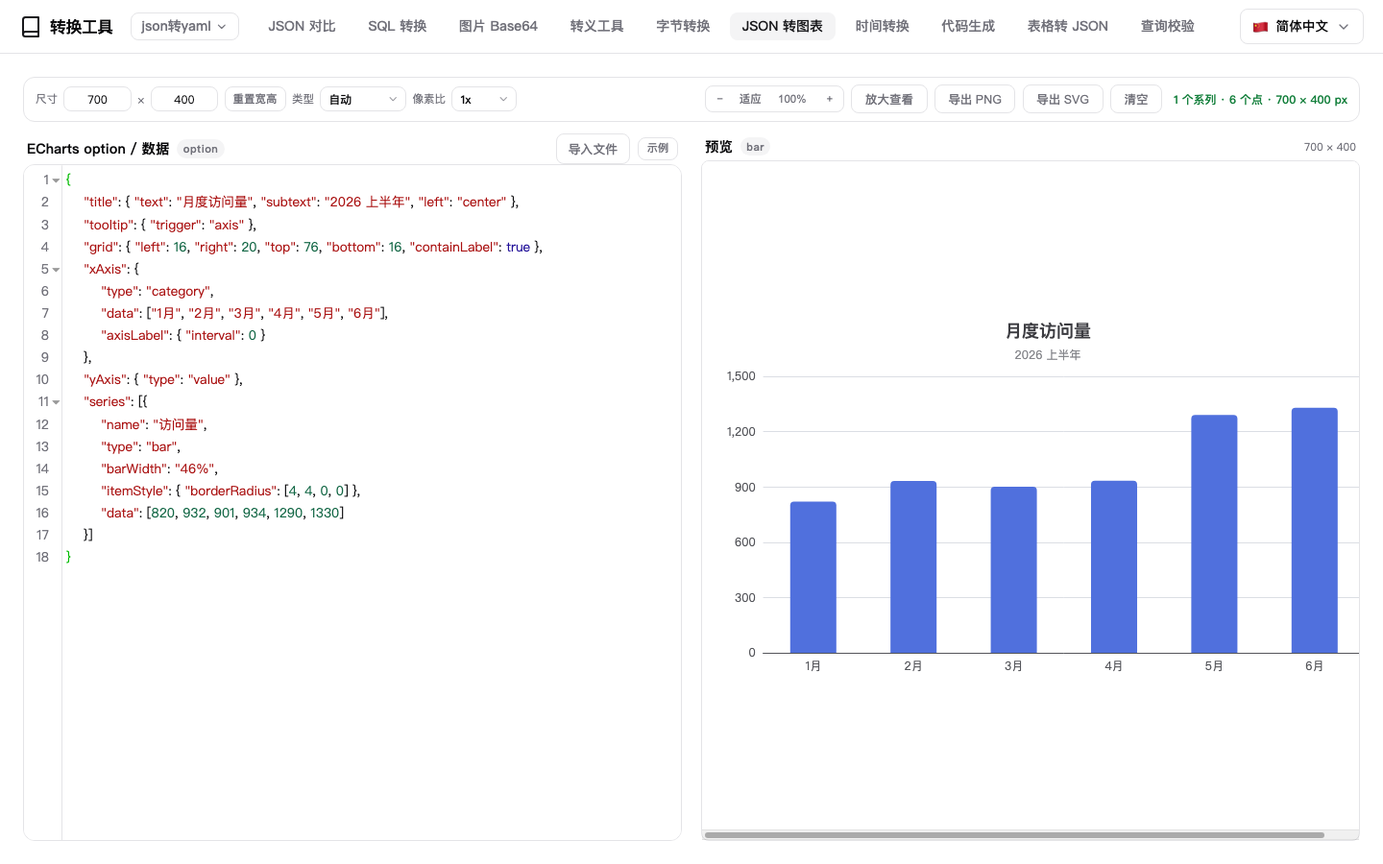
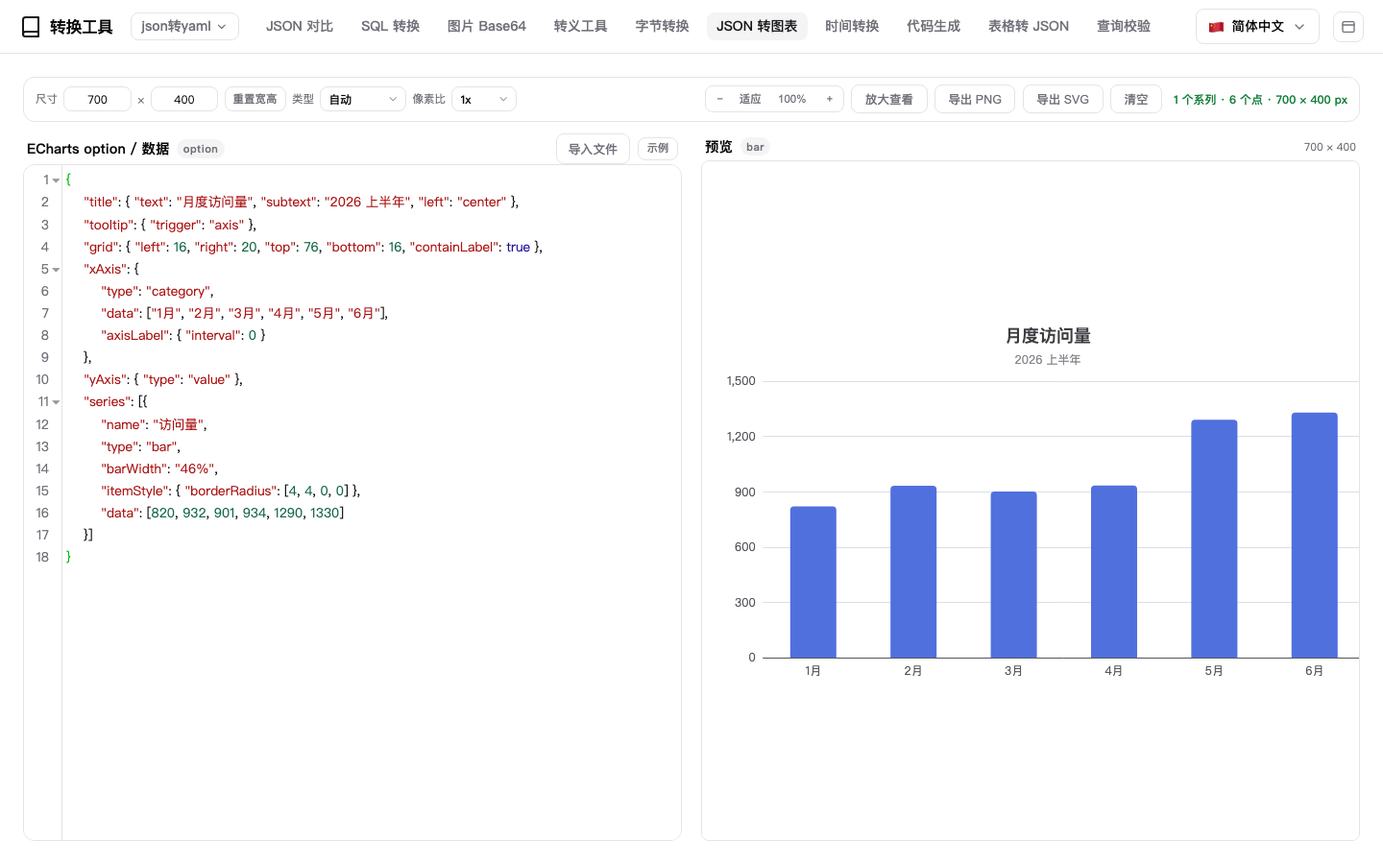
增加导航栏切换

diff --git a/ui/index.html b/ui/index.html
@@ -284,7 +284,9 @@
             text-decoration: none;
             color: inherit;
             cursor: pointer;
-            padding: 0.4rem 0.8rem;
+            /* 比原来的 0.8rem 收一点：给右上角的布局切换按钮腾出位置，
+               1440 宽下 10 个导航项仍然全部留在顶栏上 */
+            padding: 0.4rem 0.65rem;
             border-radius: var(--radius-md, 0.5rem);
             transition: all 0.15s ease;
             font-weight: 500;
@@ -297,6 +299,77 @@
         }
         /* 一项都放不下时不要让空容器继续占位 */
         .nav-links.is-empty { flex: 0 0 0; }
+
+        /* ===== 导航位置切换：默认顶部，可切到左侧 ===== */
+        .nav-toggle {
+            display: inline-flex;
+            align-items: center;
+            justify-content: center;
+            width: 2rem;
+            height: 2rem;
+            padding: 0;
+            flex-shrink: 0;
+            border: 1px solid var(--border-light);
+            border-radius: var(--radius-md, 0.5rem);
+            background: transparent;
+            color: var(--text-muted);
+            cursor: pointer;
+            transition: all 0.15s ease;
+        }
+        .nav-toggle:hover {
+            color: var(--text-main);
+            background-color: var(--accent-bg);
+        }
+        .nav-toggle svg { width: 1rem; height: 1rem; }
+        .nav-toggle-icon-left { display: none; }
+
+        @media (min-width: 769px) {
+            /* 图标跟着当前布局走：顶部显示「顶栏」图，左侧显示「侧栏」图 */
+            body.nav-left .nav-toggle-icon-top { display: none; }
+            body.nav-left .nav-toggle-icon-left { display: block; }
+
+            /* 导航项整列贴到左边，顶栏只留品牌 / 格式转换 / 语言 / 切换 */
+            body.nav-left { --nav-left-w: 13rem; }
+            body.nav-left #navLinks {
+                position: fixed;
+                top: 3.5rem;
+                left: 0;
+                bottom: 0;
+                width: var(--nav-left-w, 13rem);
+                height: auto;
+                flex: 0 0 auto;
+                flex-direction: column;
+                align-items: stretch;
+                gap: 0.25rem;
+                margin: 0;
+                padding: 0.75rem 0.625rem;
+                overflow-x: hidden;
+                overflow-y: auto;
+                white-space: normal;
+                background-color: var(--bg-base);
+                border-right: 1px solid var(--border-light);
+                z-index: 20;
+            }
+            body.nav-left #navLinks a {
+                display: block;
+                padding: 0.5rem 0.75rem;
+            }
+            /* 竖排能放下所有项，「更多」不会再出现 */
+            body.nav-left #navMore { display: none; }
+            /* 导航项离场后，把语言与切换按钮顶到右边 */
+            body.nav-left .nav-convert { margin-right: auto; }
+            /* 内容区让出左侧栏的宽度 */
+            body.nav-left .main-container {
+                margin-left: var(--nav-left-w, 13rem);
+                margin-right: 0;
+                width: auto;
+            }
+        }
+
+        /* 窄屏放不下侧栏，只保留顶部布局 */
+        @media (max-width: 768px) {
+            .nav-toggle { display: none; }
+        }
 
         /* 「格式转换」下拉：7 个格式互转入口收在这里 */
         .nav-convert {
@@ -2738,6 +2811,12 @@
         </button>
         <div class="lang-menu" id="langMenu"></div>
     </div>
+
+    <!-- 导航位置切换：顶部 ⇄ 左侧，偏好记在 localStorage（默认顶部） -->
+    <button type="button" class="nav-toggle" id="navToggle" data-keep-title aria-label="切换到左侧导航">
+        <svg class="nav-toggle-icon-top" xmlns="http://www.w3.org/2000/svg" viewBox="0 0 24 24" fill="none" stroke="currentColor" stroke-width="2" stroke-linecap="round" stroke-linejoin="round"><rect x="3" y="4" width="18" height="16" rx="2"/><line x1="3" y1="9" x2="21" y2="9"/></svg>
+        <svg class="nav-toggle-icon-left" xmlns="http://www.w3.org/2000/svg" viewBox="0 0 24 24" fill="none" stroke="currentColor" stroke-width="2" stroke-linecap="round" stroke-linejoin="round"><rect x="3" y="4" width="18" height="16" rx="2"/><line x1="9" y1="4" x2="9" y2="20"/></svg>
+    </button>
 </header>
 
 <main class="main-container">
@@ -4043,6 +4122,9 @@
             closeNavMore();
 
             if (!links.length) return;
+            // 左侧竖排：宽度固定、纵向滚动，横向永远不会溢出，也就没有「更多」
+            // （窄屏会退回顶部布局，那时仍要走下面的溢出逻辑）
+            if (document.body.classList.contains('nav-left') && window.innerWidth > 768) return;
             // 放得下就不用「更多」按钮（避免占位把内容挤出去）
             if (!navOverflow()) return;
 
@@ -4165,21 +4247,118 @@
         // =========================================
         // 导航「格式转换」下拉的标题：14 种语言的小表，同样由 applyI18n 合并查询
         const NAV_I18N = {
-            'zh-CN': { navConvert: '格式转换', navBytes: '字节转换', navChart: 'JSON 转图表', navTime: '时间转换' },
-            'zh-TW': { navConvert: '格式轉換', navBytes: '位元組轉換', navChart: 'JSON 轉圖表', navTime: '時間轉換' },
-            en: { navConvert: 'Convert', navBytes: 'Bytes', navChart: 'JSON to Chart', navTime: 'Time' },
-            az: { navConvert: 'Format', navBytes: 'Bayt', navChart: 'JSON → Diaqram', navTime: 'Vaxt' },
-            es: { navConvert: 'Formato', navBytes: 'Bytes', navChart: 'JSON a gráfico', navTime: 'Tiempo' },
-            id: { navConvert: 'Format', navBytes: 'Byte', navChart: 'JSON ke grafik', navTime: 'Waktu' },
-            it: { navConvert: 'Formato', navBytes: 'Byte', navChart: 'JSON in grafico', navTime: 'Tempo' },
-            ja: { navConvert: '形式変換', navBytes: 'バイト変換', navChart: 'JSON → グラフ', navTime: '時間変換' },
-            ko: { navConvert: '형식 변환', navBytes: '바이트 변환', navChart: 'JSON → 차트', navTime: '시간 변환' },
-            pt: { navConvert: 'Formato', navBytes: 'Bytes', navChart: 'JSON para gráfico', navTime: 'Tempo' },
-            pl: { navConvert: 'Format', navBytes: 'Bajty', navChart: 'JSON na wykres', navTime: 'Czas' },
-            ru: { navConvert: 'Формат', navBytes: 'Байты', navChart: 'JSON в график', navTime: 'Время' },
-            th: { navConvert: 'รูปแบบ', navBytes: 'ไบต์', navChart: 'JSON เป็นกราฟ', navTime: 'เวลา' },
-            tr: { navConvert: 'Format', navBytes: 'Bayt', navChart: 'JSON → Grafik', navTime: 'Zaman' }
+            'zh-CN': { navConvert: '格式转换', navBytes: '字节转换', navChart: 'JSON 转图表', navTime: '时间转换', navToggleToLeft: '切换到左侧导航', navToggleToTop: '切换到顶部导航' },
+            'zh-TW': { navConvert: '格式轉換', navBytes: '位元組轉換', navChart: 'JSON 轉圖表', navTime: '時間轉換', navToggleToLeft: '切換到左側導覽', navToggleToTop: '切換到頂部導覽' },
+            en: { navConvert: 'Convert', navBytes: 'Bytes', navChart: 'JSON to Chart', navTime: 'Time', navToggleToLeft: 'Move navigation to the left', navToggleToTop: 'Move navigation to the top' },
+            az: { navConvert: 'Format', navBytes: 'Bayt', navChart: 'JSON → Diaqram', navTime: 'Vaxt', navToggleToLeft: 'Naviqasiyanı sola keçir', navToggleToTop: 'Naviqasiyanı yuxarı keçir' },
+            es: { navConvert: 'Formato', navBytes: 'Bytes', navChart: 'JSON a gráfico', navTime: 'Tiempo', navToggleToLeft: 'Mover la navegación a la izquierda', navToggleToTop: 'Mover la navegación arriba' },
+            id: { navConvert: 'Format', navBytes: 'Byte', navChart: 'JSON ke grafik', navTime: 'Waktu', navToggleToLeft: 'Pindahkan navigasi ke kiri', navToggleToTop: 'Pindahkan navigasi ke atas' },
+            it: { navConvert: 'Formato', navBytes: 'Byte', navChart: 'JSON in grafico', navTime: 'Tempo', navToggleToLeft: 'Sposta la navigazione a sinistra', navToggleToTop: 'Sposta la navigazione in alto' },
+            ja: { navConvert: '形式変換', navBytes: 'バイト変換', navChart: 'JSON → グラフ', navTime: '時間変換', navToggleToLeft: 'ナビゲーションを左へ', navToggleToTop: 'ナビゲーションを上へ' },
+            ko: { navConvert: '형식 변환', navBytes: '바이트 변환', navChart: 'JSON → 차트', navTime: '시간 변환', navToggleToLeft: '탐색을 왼쪽으로', navToggleToTop: '탐색을 위로' },
+            pt: { navConvert: 'Formato', navBytes: 'Bytes', navChart: 'JSON para gráfico', navTime: 'Tempo', navToggleToLeft: 'Mover a navegação para a esquerda', navToggleToTop: 'Mover a navegação para o topo' },
+            pl: { navConvert: 'Format', navBytes: 'Bajty', navChart: 'JSON na wykres', navTime: 'Czas', navToggleToLeft: 'Przenieś nawigację w lewo', navToggleToTop: 'Przenieś nawigację na górę' },
+            ru: { navConvert: 'Формат', navBytes: 'Байты', navChart: 'JSON в график', navTime: 'Время', navToggleToLeft: 'Переместить навигацию влево', navToggleToTop: 'Переместить навигацию наверх' },
+            th: { navConvert: 'รูปแบบ', navBytes: 'ไบต์', navChart: 'JSON เป็นกราฟ', navTime: 'เวลา', navToggleToLeft: 'ย้ายเมนูไปทางซ้าย', navToggleToTop: 'ย้ายเมนูไปด้านบน' },
+            tr: { navConvert: 'Format', navBytes: 'Bayt', navChart: 'JSON → Grafik', navTime: 'Zaman', navToggleToLeft: 'Gezinmeyi sola taşı', navToggleToTop: 'Gezinmeyi üste taşı' }
         };
+
+        // 导航小表的取值（主字典里没有这些键）
+        function navT(key, fallback) {
+            const d = NAV_I18N[currentLang] || NAV_I18N.en || {};
+            return d[key] || fallback;
+        }
+
+        // =========================================
+        // 3.6 导航位置：顶部（默认）⇄ 左侧，偏好持久化
+        // =========================================
+        // DBX 工作台是 opaque origin 的沙箱，localStorage 会直接抛 SecurityError，
+        // 跨会话记忆只能靠宿主的 window.dbxPlugin.storage（需 host.storage 权限，
+        // 初始化后看 capabilities.storage）。所以做成三级：
+        //   宿主 storage（沙箱里唯一能记住的）→ 浏览器 localStorage（dev / 浏览器预览）→ 内存
+        const NAV_PREF_KEY = 'navLayout';
+        const navToggleBtn = document.getElementById('navToggle');
+        let navLeft = false;
+
+        function navReadLocal() {
+            try {
+                const v = localStorage.getItem(NAV_PREF_KEY);
+                return v === 'left' || v === 'top' ? v : null;
+            } catch (e) { return null; }
+        }
+        function navWriteLocal(v) {
+            // 沙箱里这里必然抛，忽略即可，宿主存储才是真正生效的那一路
+            try { localStorage.setItem(NAV_PREF_KEY, v); } catch (e) { /* noop */ }
+        }
+        function navHostStore() {
+            const api = window.dbxPlugin;
+            if (!api || !api.storage) return null;
+            if (!(api.capabilities || {}).storage) return null;
+            return api.storage;
+        }
+        async function navReadHost() {
+            try {
+                const api = window.dbxPlugin;
+                if (!api) return null;
+                // capabilities 与 storage 都要等 init 消息（ready）之后才挂好
+                if (api.ready && typeof api.ready.then === 'function') await api.ready;
+                const store = navHostStore();
+                if (!store) return null;
+                const v = await store.get(NAV_PREF_KEY);
+                return v === 'left' || v === 'top' ? v : null;
+            } catch (e) { return null; }
+        }
+        async function navWriteHost(v) {
+            try {
+                const api = window.dbxPlugin;
+                if (!api) return;
+                if (api.ready && typeof api.ready.then === 'function') await api.ready;
+                const store = navHostStore();
+                if (store) await store.set(NAV_PREF_KEY, v);
+            } catch (e) { /* 旧宿主 / 未授权：静默降级，不打扰用户 */ }
+        }
+
+        function navSyncToggleLabel() {
+            if (!navToggleBtn) return;
+            const label = navLeft
+                ? navT('navToggleToTop', '切换到顶部导航')
+                : navT('navToggleToLeft', '切换到左侧导航');
+            navToggleBtn.setAttribute('aria-label', label);
+            // 宿主会给没 title 的按钮塞自己的提示词，这个要留着自己的
+            navToggleBtn.title = label;
+        }
+
+        function navApplyLayout() {
+            document.body.classList.toggle('nav-left', navLeft);
+            navSyncToggleLabel();
+            // 横排 / 竖排换了，谁该收进「更多」也要重算
+            layoutNav();
+        }
+
+        if (navToggleBtn) {
+            navToggleBtn.addEventListener('click', () => {
+                navLeft = !navLeft;
+                const pref = navLeft ? 'left' : 'top';
+                navWriteLocal(pref);
+                navWriteHost(pref);
+                navApplyLayout();
+            });
+        }
+
+        // 先按同步来源恢复（浏览器 / dev 宿主里 localStorage 可用），避免闪一下顶部
+        const navLocalPref = navReadLocal();
+        if (navLocalPref) navLeft = navLocalPref === 'left';
+        if (navLeft) document.body.classList.add('nav-left');
+        navSyncToggleLabel();
+
+        // 宿主存储是权威来源：沙箱里只有它能在重开 / 重启后记住
+        navReadHost().then((v) => {
+            if (!v) return;
+            const want = v === 'left';
+            if (want === navLeft) return;
+            navLeft = want;
+            navApplyLayout();
+        }).catch(() => {});
 
         function applyI18n() {
             // SQL 页与导航下拉的文案各放一张小表（见第 8 节 / 上面），这里合并进来查，
@@ -4224,6 +4403,8 @@
             updateOutputLabel();
             // 文案长度随语言变化，重新决定收哪几项进「更多」
             if (typeof layoutNav === 'function') layoutNav();
+            // 导航位置切换按钮的 title / aria-label 也跟着语言走
+            if (typeof navSyncToggleLabel === 'function') navSyncToggleLabel();
             // SQL 页的提示语是按当前语言拼出来的，切语言后重算一次
             if (typeof refreshSqlI18n === 'function') refreshSqlI18n();
             // 表格页的文件信息 / 提示语同理

diff --git a/tests/ui.smoke.js b/tests/ui.smoke.js
@@ -2401,6 +2401,33 @@ function check(name, fn) {
         if (doc.getElementById('navMoreTrigger').textContent.indexOf('更多') === -1) throw new Error('「更多」文案缺失');
     });
 
+    // 导航位置切换：默认顶部，可切到左侧（偏好由宿主 storage 记忆，这里只验布局）
+    check('默认是顶部导航，切换按钮在', function () {
+        if (!doc.getElementById('navToggle')) throw new Error('缺少切换按钮');
+        if (doc.body.classList.contains('nav-left')) throw new Error('默认不该是左侧');
+        if (inlineNavLinks().length !== 10) throw new Error('顶部直属项 ' + inlineNavLinks().length);
+        var label = doc.getElementById('navToggle').getAttribute('aria-label') || '';
+        if (label.indexOf('左侧') === -1) throw new Error('提示文案: ' + label);
+    });
+
+    doc.getElementById('navToggle').click();
+    check('点切换后导航变左侧', function () {
+        if (!doc.body.classList.contains('nav-left')) throw new Error('没切到左侧');
+        // 竖排能放下全部项，不该再收进「更多」
+        if (inlineNavLinks().length !== 10) throw new Error('左侧直属项 ' + inlineNavLinks().length);
+        if (moreEl.classList.contains('show')) throw new Error('左侧模式不该出现「更多」');
+        var label = doc.getElementById('navToggle').getAttribute('aria-label') || '';
+        if (label.indexOf('顶部') === -1) throw new Error('提示没切成「顶部」: ' + label);
+    });
+
+    doc.getElementById('navToggle').click();
+    check('再点一次回到顶部导航', function () {
+        if (doc.body.classList.contains('nav-left')) throw new Error('没切回顶部');
+        if (inlineNavLinks().length !== 10) throw new Error('回顶部后直属项 ' + inlineNavLinks().length);
+        var label = doc.getElementById('navToggle').getAttribute('aria-label') || '';
+        if (label.indexOf('左侧') === -1) throw new Error('提示没切成「左侧」: ' + label);
+    });
+
     check('「格式转换」下拉点开、点空白收起', function () {
         doc.getElementById('navConvertTrigger').click();
         if (!convertEl.classList.contains('open')) throw new Error('未展开');

diff --git a/.workbuddy/memory/MEMORY.md b/.workbuddy/memory/MEMORY.md
@@ -13,7 +13,7 @@
 ## 文档与截图
 
 1. **截图与当前版本一致**：改到 UI（导航、布局、文案、主题）就重拍 README 用到的图；导航项 / 页面结构 / 按钮文案要与当次打包的 `ui/index.html` 对得上。
-1.1 **加一个导航项 = 全部核心页截图都过时**（2026-10-25 教训）：导航是每张图都有的公共区域，新增「时间转换」后其余 10 张图里的导航就少了一项，用户一眼看出「截图好像是旧的」。所以加页面 / 改导航后要**整套重拍**，不能只补新页那张；拍完逐张确认导航里含新项。
+1.1 **动到公共区域 = 全部核心页截图都过时**（2026-10-25 教训）：导航是每张图都有的公共区域，新增「时间转换」后其余 10 张图里的导航就少了一项，用户一眼看出「截图好像是旧的」。所以加页面 / 改导航后要**整套重拍**，不能只补新页那张；拍完逐张确认导航里含新项。0.1.8 加顶栏布局按钮 + 改导航项 padding 同样触发整套重拍。
 1.2 重拍脚本：`/tmp/imgh/shoot-readme-all.js` 一次跑 11 张（1440×900、1x、亮色、清 toast），另有 `shoot-readme-main.js`（格式转换页）、`shoot-readme-fill.js`、`shoot-readme-sql.js` 处理要手工装内容的页。三个坑：
    - **只有部分页会自动装示例**（代码 / 查询 / 转义 / 字节 / 图表点导航就有；表格要点「用户信息」、图片要点「示例图片」）；**格式转换、对比、SQL、时间转换是空的**，格式转换点 `#genMockBtn` + `#convertBtn`，对比点 `#cmpJsonSamples` 里的「用户信息」+ `#cmpRun`，SQL 要往 `#sqlInputText` 灌值再点 `#sqlGenerate`，时间转换往 CM 里灌 5 行（`2020-01-01` / 空格 / `T` / 两个时间戳）。时间页的空态看着像有字，其实是 `timeInputPlaceholder` 的灰色占位（一行用 `·` 连起来）。
    - 判断内容有没有进去**别读 `textarea.value`**（CodeMirror 会返回空），读 `el.CodeMirror.getValue()`；懒创建的 CM 要等 ~500 ms 再取。
@@ -82,6 +82,14 @@
 - `timeLocateRow()` 调 `scrollIntoView` 前必须判 `typeof === 'function'`：jsdom 没实现，而快捷填入会主动定位，不判就在冒烟里抛错。
 - 快捷卡片同样要 `flex-shrink: 0`（时间页是纵向 flex，否则被结果区挤扁）。
 - 文案在独立小表 `TIME_I18N`（14 语），并入 `applyI18n` 与 `tests/i18n.test.js`。
+
+### 导航位置切换（0.1.8）
+
+- 默认顶部。顶栏最右 `#navToggle` 切换，给 `body` 加 `nav-left` 生效。左侧时 `#navLinks` 变 `position: fixed; top: 3.5rem; left: 0; width: 13rem` 竖排，`.main-container` 让出同宽；`#navMore` 隐藏（竖排放得下全部 10 项）；`.nav-convert { margin-right: auto }` 把语言/切换顶到右边。
+- **偏好只能靠宿主存**：DBX 工作台是 opaque origin 沙箱，`localStorage` 抛 SecurityError。用 `window.dbxPlugin.storage`（manifest 要有 `host.storage`，且 `capabilities.storage` 为真），浏览器 / dev 退回 `localStorage`，再不行只在本会话生效。键 `navLayout`，值 `top` / `left`。启动先同步 localStorage 预读避免闪，再 `await dbxPlugin.ready` 用宿主值校正。
+- `layoutNav()` 在 `nav-left` 且 `innerWidth > 768` 时短路：竖排横向不溢出，别把项搬进那个被隐藏的 `#navMore`。窄屏（≤768）仍走顶部布局，切换按钮直接隐藏。
+- **加按钮会挤掉导航项**：1440 宽下 10 项原本刚好排满，新按钮让末尾两项进了「更多」。`.nav-links a` 左右 padding 从 `0.8rem` 收到 `0.65rem` 才保住 10 项（实测 0.6 / 0.65 都行）。左侧栏的项单独设 `padding: 0.5rem 0.75rem`，不受影响。
+- `timeLocateRow` 之外又一例 jsdom 差异：`window.innerWidth` 在 jsdom 默认 1024，短路判断在冒烟里能正常走左侧分支。
 
 ### 导入体系（0.1.6）
 

diff --git a/.workbuddy/memory/2026-10-26.md b/.workbuddy/memory/2026-10-26.md
@@ -1,0 +1,29 @@
+# 2026-10-26
+
+### 导航栏可切到左侧（默认顶部 + 跨会话记忆）
+
+需求三连：「增加导航栏切换功能，可以切到左侧，其他功能不要变」→「默认顶部导航栏」→「支持导航栏切换记忆」→「再次打开要为最后一次的模式」→「考虑对dbx插件的记忆」。
+
+**实现**
+- 顶栏最右加 `#navToggle`（32×32 图标按钮，`data-keep-title`），图标随布局切换：顶部显示"顶栏"图、左侧显示"侧栏"图。
+- `body.nav-left` 下 `#navLinks` 变 `position: fixed; top: 3.5rem; left: 0; width: 13rem` 竖排 + 纵向滚动，`.main-container` 让出同宽，`#navMore` 隐藏，`.nav-convert { margin-right: auto }` 把语言/切换顶右。规则全部包在 `@media (min-width: 769px)`，窄屏只保留顶部（`.nav-toggle { display: none }`）。
+- i18n：`NAV_I18N` 14 语各加 `navToggleToLeft` / `navToggleToTop`，新增 `navT()`（主字典没有这些键）。切语言时 `applyI18n` 调 `navSyncToggleLabel()`。
+- `layoutNav()` 加短路：`nav-left` 且 `innerWidth > 768` 直接返回，不把项搬进被隐藏的「更多」。
+
+**持久化（关键决策）**
+- 查官方文档确认：DBX 工作台是 **opaque origin 沙箱，`localStorage` 会抛 SecurityError**，官方明确要求用 `window.dbxPlugin.storage`，需 `host.storage` 权限 + `capabilities.storage` 门控。
+- manifest `permissions` 加 `host.storage`。
+- 三级降级：宿主 storage → 浏览器 localStorage（dev/预览）→ 内存。键 `navLayout` = `top` / `left`。启动先同步 localStorage 预读（避免闪一下顶部），再 `await dbxPlugin.ready` 后 `storage.get('navLayout')` 校正。
+- `set` 失败静默，不打扰用户。
+
+**踩坑**
+- **1440 宽下 10 个导航项变 8 个**：新按钮占 32px + gap，导致「更多」出现并再占 80px。实测 `.nav-links a` padding 从 `0.8rem` 收到 `0.65rem` 后 10 项全回来（navW 861 → 948）。左侧栏项单独 padding 不受影响。
+- 左侧栏宽度用 `--nav-left-w: 13rem` 变量统一（`#navLinks` 宽 + `main-container` margin-left）。
+
+**验证**
+- 真 Chrome 1440×900：顶部 10 项 / more=false；左侧 nav(0,56,208,844)、main left=208；刷新后仍是左侧（stored=left）；切回顶部 stored=top；控制台无报错。
+- `ui.smoke.js` 233 → **236**（新增 3 条：默认顶部、切左侧 10 项不出现「更多」、再点回顶部）。
+- `i18n.test.js` 52 通过。
+- 11 张 README 截图整套重拍（1440×900、亮色、无 toast、顶部布局），逐张确认非空态；与中英 README 引用双向一致。
+
+**版本**：manifest 已是用户改的 0.1.8，其余三处对齐到 0.1.8（package.json / CHANGELOG 新段 / `.dbx-store.json` source + releaseNotes）。未提交。

diff --git a/CHANGELOG.md b/CHANGELOG.md
@@ -1,4 +1,21 @@
 # Changelog
+## [0.1.8]
+
+### ✨ 新增 (Features)
+
+*   **导航栏可切到左侧，默认仍在顶部**：顶栏最右侧加了一个布局切换按钮（图标随当前布局变：顶部显示"顶栏"图、左侧显示"侧栏"图）。点一下把 10 个导航项整列挪到左侧，再点回到顶部；切到左侧后顶栏只留品牌、格式转换下拉、语言切换和这个按钮，导航项竖排占一列（13rem）、内容区自动让出同样的宽度。竖排时一列放得下全部入口，「更多」不再出现。
+
+### 🐞 修复 (Fixes)
+
+*   **切换按钮会挤掉导航项**：1440 宽的窗口里原本 10 个导航项刚好排满，新按钮把末尾两项挤进了「更多」。把导航项左右内边距从 `0.8rem` 收到 `0.65rem`（每边少 2.4px，视觉几乎无差），10 项仍全部留在顶栏，1440 下不再出现「更多」。
+
+### 🛠 工程化 (Internal)
+
+*   **布局偏好跨会话记忆，按宿主能力三级降级**：DBX 工作台是 opaque origin 的沙箱，`localStorage` 会直接抛 SecurityError，所以跨会话记忆用宿主的 `window.dbxPlugin.storage`（manifest 新增 `host.storage` 权限，读前先看初始化能力 `capabilities.storage`）；浏览器预览 / dev 宿主没有该能力时退回 `localStorage`，再不行就只在本次会话内生效。存的是 `navLayout`（`top` / `left`），首次打开没有记录时就是顶部。
+*   **默认顶部、重开恢复上次选择**：启动时先用同步来源（`localStorage`）恢复避免闪一下，再等宿主 `ready` 后用 `storage.get('navLayout')` 校正——沙箱里只有宿主存储能真正跨会话记住。切语言时 `aria-label` / `title` 也跟着刷新（`NAV_I18N` 14 语新增 `navToggleToLeft` / `navToggleToTop`）。
+*   `layoutNav()` 在左侧竖排（且窗口 > 768px）时短路：竖排宽度固定、纵向滚动，横向不会溢出，也就不会把项搬进那个被隐藏的「更多」。窄屏仍走原来的顶部布局与溢出收纳。
+*   冒烟补 3 条：默认顶部且按钮在、点一下变左侧且 10 项全在列（不出现「更多」）、再点回顶部。冒烟 233 → 236。
+
 ## [0.1.7]
 
 ### ✨ 新增 (Features)

diff --git a/README.zh-CN.md b/README.zh-CN.md
@@ -157,6 +157,7 @@
 
 - **国际化**——14 种语言：zh-CN、zh-TW、en、ja、ko、es、id、it、pl、pt、ru、th、tr、az。切换器里列出前三种，其余随宿主 locale 自动匹配；十一个页面（格式转换、对比、SQL、表格、图片、代码生成、查询校验、转义工具、字节转换、时间转换、图表）的文案都已覆盖全部 14 种，连 20 条 Schema 校验错误也有译文，缺一条会退回英文而不是中文。
 - **主题适配**——跟随 DBX 宿主主题与 shadcn/ui 设计令牌，宿主只下发主题信息（不写 `data-dbx-theme`）或自定义调色板同样生效。首屏按宿主主题直接落定、不闪白底，明暗切换有 300 ms 整页过渡，`prefers-reduced-motion` 下自动关掉。唯一的例外是「JSON 转图表」画出来的图：它是产物，固定浅色配色 + 白底，不跟着变暗。
+- **导航布局**——顶栏右上角的按钮让导航在「顶部」和「左侧」之间切换，默认顶部。切到左侧后十个入口竖排成一列（13rem），内容区自动让出同样的宽度，一列放得下全部入口，所以不会出现「更多」。选择会记住：宿主 `dbxPlugin.storage`（沙箱里没有 `localStorage`），没有该能力时退回浏览器存储或只在本次会话生效，重开还是上次的样子。
 - **剪贴板**——通过 DBX Host API 一键复制，没有宿主时走浏览器降级方案。
 - **离线**——无后端、无 CDN、无遥测；CodeMirror、YAML 库与 ECharts（Apache-2.0，`ui/vendor/echarts/` 连同 LICENSE）都打在包里，跑起来一次网络请求都没有。
 
@@ -180,7 +181,7 @@ git clone <repo-url> && cd dbx-plugin-data-convert
 ./scripts/run.sh                # 等价于 build.sh dev
 
 npm test                        # 纯函数用例，无第三方依赖（890 条）
-npm install && npm run test:ui  # jsdom 页面接线冒烟（233 项）
+npm install && npm run test:ui  # jsdom 页面接线冒烟（236 项）
 ```
 
 Windows 下使用 `scripts\build.cmd`（需要 Git Bash）。

diff --git a/README.md b/README.md
@@ -159,6 +159,7 @@ A [DBX](https://dbxio.com) plugin that moves data between formats without leavin
 
 - **Internationalization** — 14 languages: zh-CN, zh-TW, en, ja, ko, es, id, it, pl, pt, ru, th, tr, az. Every page (convert, compare, SQL, sheet, image, code gen, query, escape, bytes, time, chart) is translated into all 14, including the 20 schema-validation messages.
 - **Theme adaptability** — follows the DBX host theme and shadcn/ui tokens, including hosts that only send theme metadata (no `data-dbx-theme`) and custom palettes. First paint already matches the host, theme switches cross-fade over 300 ms, and `prefers-reduced-motion` turns the animation off. The one exception is the chart itself on the JSON to Chart page: it is output, not interface, so it stays on the light palette with a white background.
+- **Navigation layout** — the button at the far right of the top bar moves the navigation between top and left, top by default. On the left the ten entries stack into one 13rem column and the content area shifts over; the column fits every entry, so "More" never appears. The choice is remembered — host `dbxPlugin.storage` (the sandbox has no `localStorage`), falling back to browser storage or the current session — so reopening keeps the last layout.
 - **Clipboard** — one-click copy through the DBX host API, with a browser fallback.
 - **Offline** — no backend, no CDN, no telemetry; CodeMirror, the YAML library and ECharts (Apache-2.0, `ui/vendor/echarts/` with its LICENSE) all ship inside the package.
 
@@ -182,7 +183,7 @@ git clone <repo-url> && cd dbx-plugin-data-convert
 ./scripts/run.sh                # shorthand for `build.sh dev`
 
 npm test                        # pure-function suites, no dependencies (890 cases)
-npm install && npm run test:ui  # jsdom smoke test of the UI wiring (233 checks)
+npm install && npm run test:ui  # jsdom smoke test of the UI wiring (236 checks)
 ```
 
 On Windows use `scripts\build.cmd` instead (requires Git Bash).
